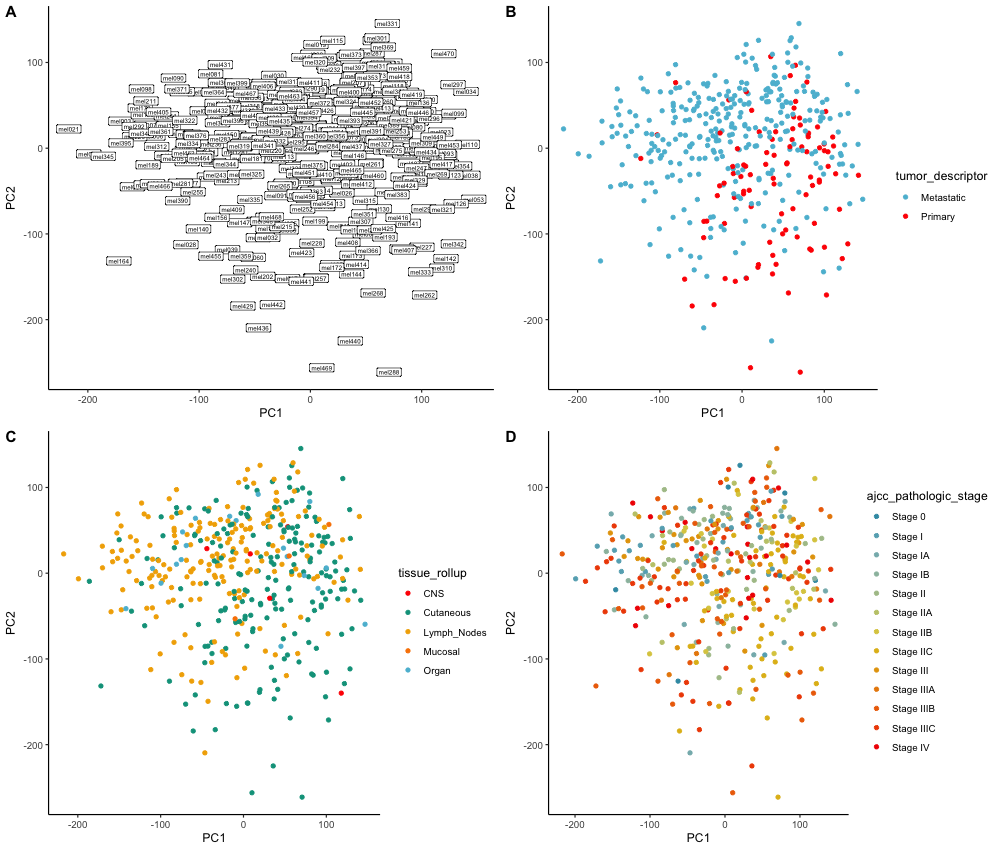
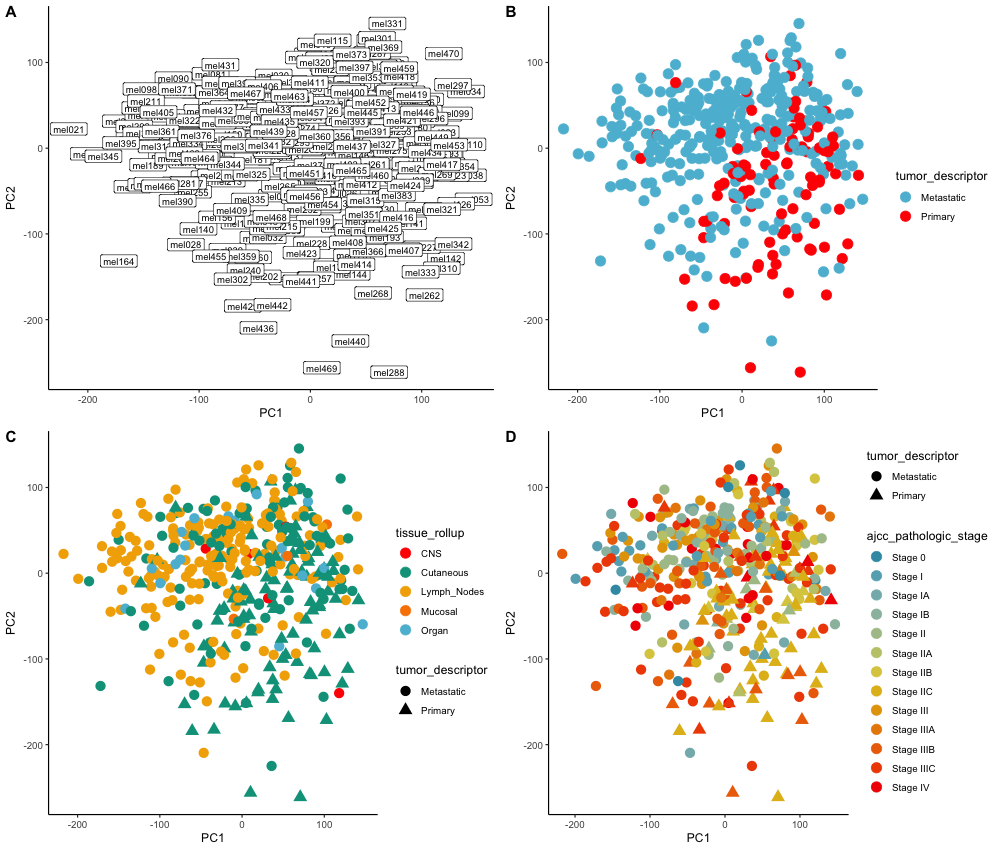
updated PCA plots with shapes

diff --git a/README.md b/README.md
@@ -37,9 +37,7 @@ There shouldn't be "Primary" samples from non-cutaneous tissues. These are misla
 
 **Table 2. Summary of the number of samples from disease stages.**
 
-There shouldn't be metastatic samples labeled Stage 0 or stage 1, and probably not stage 2 either. This is concerning. 
-
-
+There shouldn't be metastatic samples labeled Stage 0 or stage 1, and probably not stage 2 either. This is concerning. I could eliminate early stage samples, but this would substaintally lower our sample size. I'll leave these samples in for now and see how they related to other samples in a PCA. 
 
 
 ![alt_text](https://github.com/SciOmics/TCGA_Melanoma_RNASeq/blob/main/outputs/plots/pca_plots.png?raw=true)  
